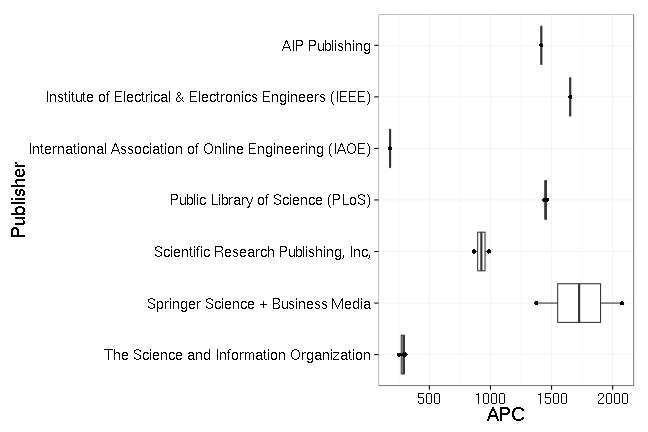
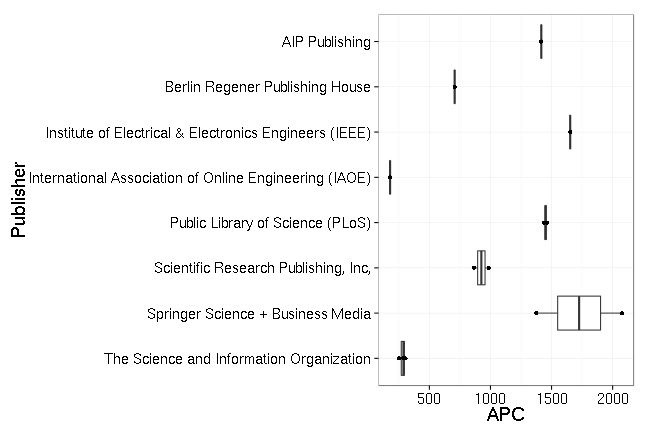
TU Ilmenau post updated

diff --git a/_posts/2016-03-07-ilmenau.md b/_posts/2016-03-07-ilmenau.md
@@ -21,7 +21,7 @@ Contact person is [Dr. Peter Blume](<mailto:openaccess.ub@tu-ilmenau.de>).
 
 
 
-With the recent contribution expenditures for 2015 now include 12 articles, which the fund covered in 2015. Total expenditure amounts to 12 296€ and the average fee is 1 025€.
+With the recent contribution expenditures for 2015 now include 13 articles, which the fund covered in 2015. Total expenditure amounts to 13 002€ and the average fee is 1 000€.
 
 The following table shows the payments the [University Library of TU Ilmenau](https://www.tu-ilmenau.de/ub/) has made to publishers in 2015.
 
@@ -34,6 +34,7 @@ The following table shows the payments the [University Library of TU Ilmenau](ht
 |Public Library of Science (PLoS)                       |        2|              2903|          1451|
 |International Association of Online Engineering (IAOE) |        1|               178|           178|
 |Institute of Electrical & Electronics Engineers (IEEE) |        1|              1653|          1653|
+|Berlin Regener Publishing House                        |        1|               707|           707|
 |AIP Publishing                                         |        1|              1416|          1416|
 
 ## Overview
